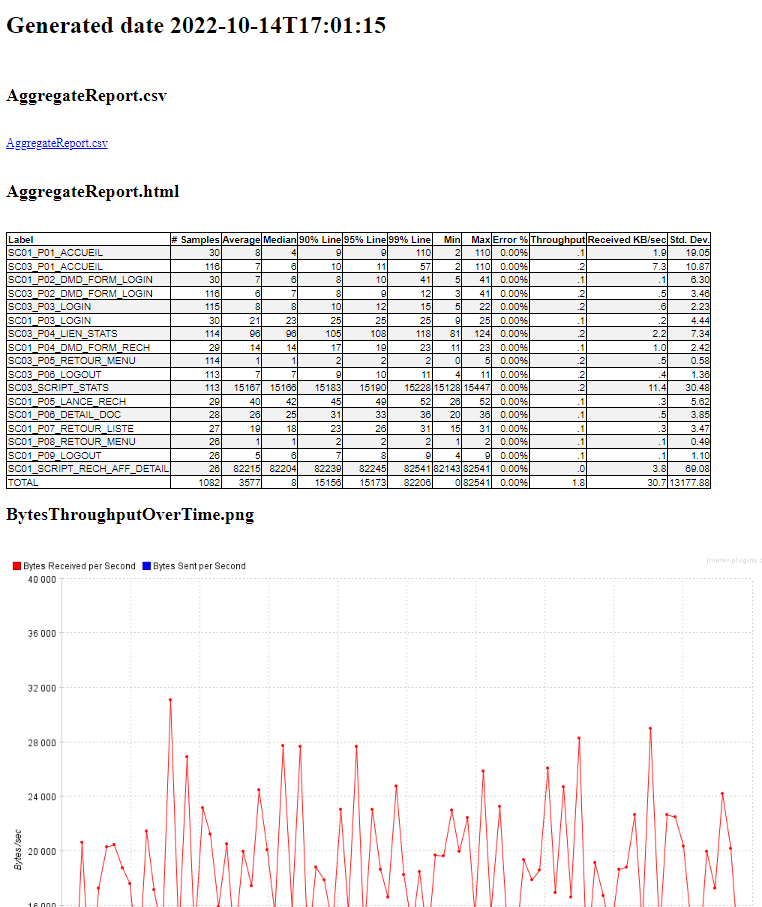
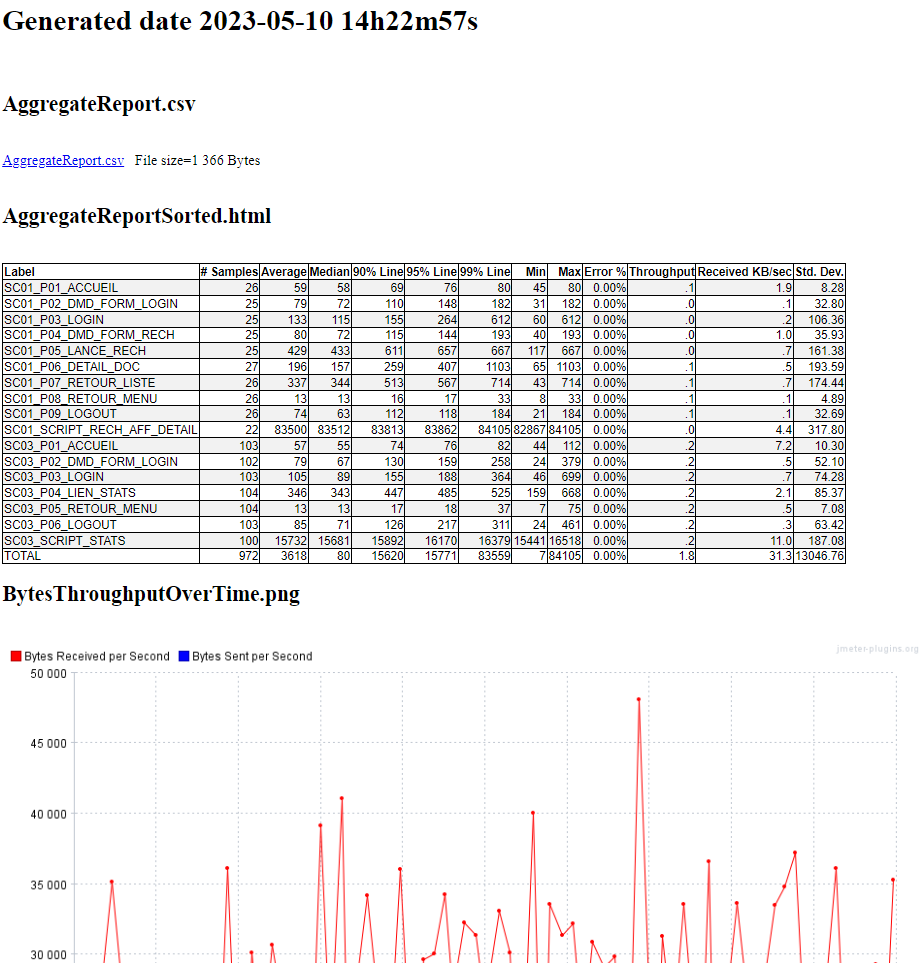
add file size after <a href= link

diff --git a/src/main/java/io/github/vdaburon/jmeter/utils/HtmlGraphVisualizationGenerator.java b/src/main/java/io/github/vdaburon/jmeter/utils/HtmlGraphVisualizationGenerator.java
@@ -6,6 +6,8 @@ import java.io.FileWriter;
 import java.io.IOException;
 import java.nio.file.Files;
 import java.nio.file.Paths;
+import java.text.DecimalFormat;
+import java.text.DecimalFormatSymbols;
 import java.text.SimpleDateFormat;
 import java.util.ArrayList;
 import java.util.Arrays;
@@ -25,7 +27,7 @@ public class HtmlGraphVisualizationGenerator {
 		
 		if (args.length != 2) {
 			System.err.println("Usage HtmlGraphVisualizationGenerator dirWithFiles fileOutHtml");
-			System.err.println("E.g. java -jar create-html-for-files-in-directory-<version>.jar -Dimage_width=1024 c:/jmeter/dir_results index.html");
+			System.err.println("E.g. java -Dimage_width=1024 -jar create-html-for-files-in-directory-<version>.jar c:/jmeter/dir_results index.html");
 			System.exit(1);
 		}
 		String dirWithFiles = args[0];
@@ -71,7 +73,7 @@ public class HtmlGraphVisualizationGenerator {
 			out.write("<body><br/><br/>");
 			out.write(LINE_SEP);
 
-			SimpleDateFormat dateformat = new SimpleDateFormat("yyyy-MM-dd'T'HH:mm:ss", Locale.getDefault());
+			SimpleDateFormat dateformat = new SimpleDateFormat("yyyy-MM-dd HH'h'mm'm'ss's'", Locale.getDefault());
 			String sDate = dateformat.format(new Date());
 			
 			out.write("<h1> Generated date " + sDate + "</h1><br/>");
@@ -86,13 +88,18 @@ public class HtmlGraphVisualizationGenerator {
 					
 					// folderRead = c:\dir1\dir2\dirIn, f =  c:\dir1\dir2\dirIn\logo.gif => nameRelative = logo.gif (remove the folderRead path)
 					String nameRelative = f.getCanonicalPath().substring(fDirWithFiles.getCanonicalPath().length() + 1);
+
 					out.write("<h2>" + nameRelative + "</h2><br/>");
 					out.write(LINE_SEP);
-					
-					
+
 					if (name.endsWith("csv") || name.endsWith("jtl") || name.endsWith("xml") ||name.endsWith("gz") || name.endsWith("zip") || name.endsWith("log")) {
+						long lengthBytes = f.length();
+						DecimalFormatSymbols symbols = DecimalFormatSymbols.getInstance();
+						symbols.setGroupingSeparator(' ');
+
+						DecimalFormat formatter = new DecimalFormat("###,###.##", symbols);
 						// link to the file
-						out.write("<a href='" + nameRelative + "'>" + nameRelative + "</a><br/><br/>");
+						out.write("<a href='" + nameRelative + "'>" + nameRelative + "</a>&nbsp;&nbsp;&nbsp;File size=" + formatter.format(lengthBytes) + " Bytes<br/><br/>");
 					}
 										
 					if (name.endsWith("gif") || name.endsWith("png") || name.endsWith("bmp") || name.endsWith("jpg") || name.endsWith("jpeg")) {

diff --git a/README.md b/README.md
@@ -42,9 +42,10 @@ The maven groupId, artifactId and version, this plugin is in the **Maven Central
 ```xml
 <groupId>io.github.vdaburon</groupId>
 <artifactId>create-html-for-files-in-directory</artifactId>
-<version>1.1</version>
+<version>1.2</version>
 ```
-Just include the plugin in your `pom.xml` and execute `mvn verify`.
+Just include the plugin in your `pom.xml` and execute `mvn verify` <br>
+or individual launch `mvn -Dgraph_width=950 exec:java@create_html_page_for_files_in_directory`
 
 ```xml
 <project>
@@ -56,7 +57,7 @@ Just include the plugin in your `pom.xml` and execute `mvn verify`.
         <dependency>
             <groupId>io.github.vdaburon</groupId>
             <artifactId>create-html-for-files-in-directory</artifactId>
-            <version>1.1</version>
+            <version>1.2</version>
         </dependency>
     </dependencies>
     
@@ -97,15 +98,22 @@ Just include the plugin in your `pom.xml` and execute `mvn verify`.
 ## Simple jar tool
 This tool is a java jar, so it's could be use as simple jar (look at [Release](https://github.com/vdaburon/CreateHtmlForFilesInDirectory/releases) to download jar file)
 <pre>
-java -cp create-html-for-files-in-directory-&lt;version&gt;.jar io.github.vdaburon.jmeter.utils.HtmlGraphVisualizationGenerator jmeter/results index.html
+java -Dimage_width=900 -cp create-html-for-files-in-directory-&lt;version&gt;.jar io.github.vdaburon.jmeter.utils.HtmlGraphVisualizationGenerator jmeter/results index.html
+or
+java -Dimage_width=900 -jar create-html-for-files-in-directory-&lt;version&gt;-jar-with-dependencies.jar jmeter/results index.html
 </pre>
 
 ## Link to others projects
-Usally this plugin is use with [jmeter-graph-tool-maven-plugin](https://github.com/vdaburon/jmeter-graph-tool-maven-plugin)
-
+Usally this plugin is use with [jmeter-graph-tool-maven-plugin](https://github.com/vdaburon/jmeter-graph-tool-maven-plugin)<br>
 and this plugin [csv-report-to-html](https://github.com/vdaburon/JMReportCsvToHtml)
-
 1) The **jmeter-graph-tool-maven-plugin** create the report csv files and graphs
 2) The **csv-report-to-html** create the **html table report** from the csv file
 3) The **create-html-for-files-in-directory** create a page html this links to images and files in a directory to show and add links
+
+## Versions
+Version 1.2 add the file size after the "&lt;a ref=" link
+
+Version 1.1 add link (a href) to jtl and xml files
+
+Version 1.0 initial version
 
